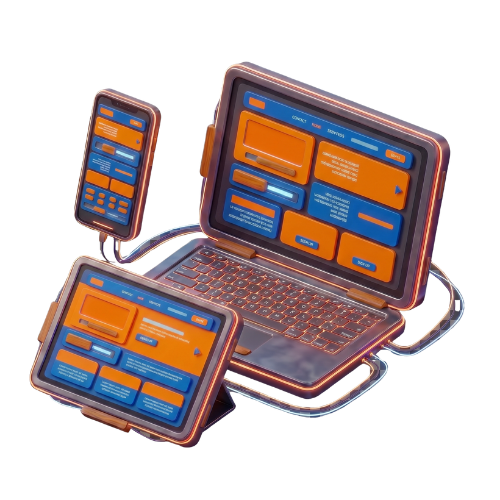
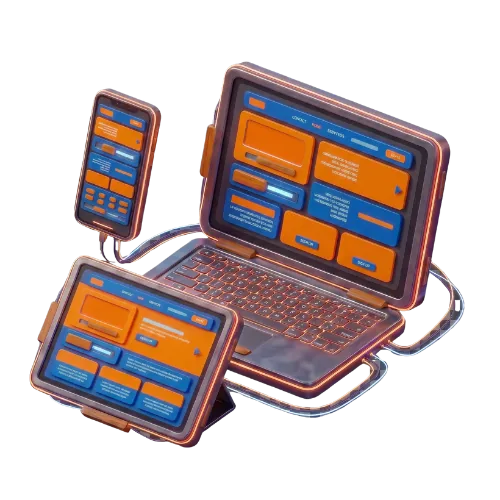
fix(a11y/perf): ARIA list/focus-trap, стисліші WebP і base-uri CSP
Прибрано невалідний role=marquee, що ламав list/listitem у клієнтській стрічці; приховані piano CTA більше не в Tab-порядку. Перестиснуто process_flow WebP (~722 KiB) і додано base-uri 'self' у CSP.

diff --git a/static/js/services_piano_block.js b/static/js/services_piano_block.js
@@ -131,6 +131,19 @@
         key.setAttribute('aria-expanded', open ? 'true' : 'false');
         rise.setAttribute('aria-hidden', open ? 'false' : 'true');
 
+        // rise може містити фокусований лінк (напр. .svc-piano__cta у "Web-розробка"):
+        // коли rise прихований (aria-hidden="true"), він не повинен лишатись
+        // досяжним по Tab, інакше screen reader/keyboard user потрапляє у
+        // прихований елемент (WCAG "aria-hidden must not contain focusable").
+        var focusables = rise.querySelectorAll('a[href], button, input, select, textarea, [tabindex]');
+        for (var i = 0; i < focusables.length; i++) {
+            if (open) {
+                focusables[i].removeAttribute('tabindex');
+            } else {
+                focusables[i].setAttribute('tabindex', '-1');
+            }
+        }
+
         if (desc) {
             desc.setAttribute('aria-hidden', open ? 'false' : 'true');
         }

diff --git a/static/js/home-bundle.js b/static/js/home-bundle.js
@@ -2341,7 +2341,9 @@ function initMarqueeAnimation(container) {
     
     container.style.setProperty('--marquee-distance', `${setWidth}px`);
     container.setAttribute('aria-label', 'Наші проєкти - автоматична демонстрація');
-    container.setAttribute('role', 'marquee');
+    // Навмисно НЕ перезаписуємо role: контейнер вже має role="list" з шаблону
+    // (redesign_clients.html / clients.html), а "marquee" — невалідна ARIA-роль,
+    // яка ламала зв'язок list/listitem для карток клієнтів (Coresync, SpeakUp...).
     
     if ('IntersectionObserver' in window) {
         const observer = new IntersectionObserver((entries) => {

diff --git a/templates/components/home/redesign_services_piano.html b/templates/components/home/redesign_services_piano.html
@@ -43,7 +43,7 @@
                                             decoding="async"
                                         >
                                     </picture>
-                                    <a href="{% url 'telegram_bot' %}" class="svc-piano__cta">{% trans "Telegram-боти під ключ" %}</a>
+                                    <a href="{% url 'telegram_bot' %}" class="svc-piano__cta" tabindex="-1">{% trans "Telegram-боти під ключ" %}</a>
                                 </div>
                                 <div class="svc-piano__key-shell">
                                     <button

diff --git a/templates/components/portfolio_home_story.html b/templates/components/portfolio_home_story.html
@@ -3,7 +3,7 @@
     <div class="v3-client-ring">
         <div class="v3-client-inner">
             {% if project.get_home_image_src %}
-            <img src="{{ project.get_home_image_src }}" alt="{{ project.get_home_label }}" width="296" height="296" loading="lazy" decoding="async">
+            <img src="{{ project.get_home_image_src }}" alt="" width="296" height="296" loading="lazy" decoding="async">
             {% endif %}
         </div>
     </div>

diff --git a/templates/components/client_home_story.html b/templates/components/client_home_story.html
@@ -3,7 +3,7 @@
     <div class="v3-client-ring">
         <div class="v3-client-inner">
             {% if client.get_logo_url %}
-            <img src="{{ client.get_logo_url }}" alt="{{ client.name }}" width="296" height="296" loading="lazy" decoding="async">
+            <img src="{{ client.get_logo_url }}" alt="" width="296" height="296" loading="lazy" decoding="async">
             {% endif %}
         </div>
     </div>

diff --git a/apps/core/middleware.py b/apps/core/middleware.py
@@ -85,6 +85,7 @@ class CSPMiddleware:
         )
         csp = "; ".join([
             "default-src 'self'",
+            "base-uri 'self'",
             f"script-src {script_src}",
             (
                 "style-src 'self' 'unsafe-inline' "
